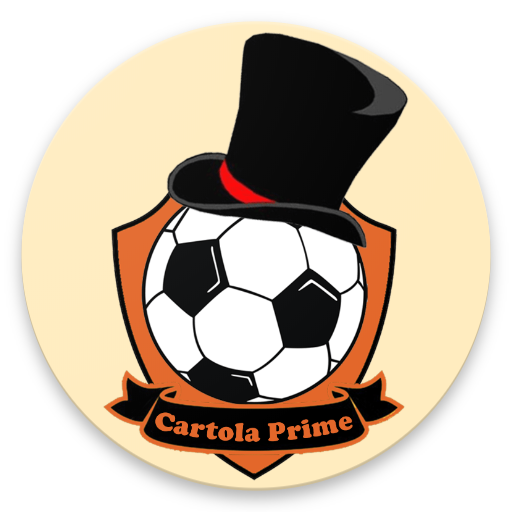
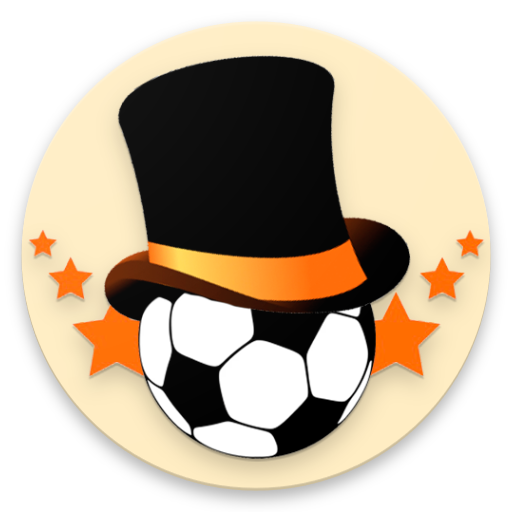
Ajustando icones

diff --git a/src/cartola_prime/lib/views/screens/mais_escalados_page.dart b/src/cartola_prime/lib/views/screens/mais_escalados_page.dart
@@ -235,23 +235,46 @@ class _MaisEscaldosPage extends State<MaisEscaldosPage> {
                   )
                 ],
               ),
-              Row(
+              Column(
                 children: [
-                  Image.network(
-                    escaldo.partida!.clubeCasa.escudos!.s30x30!,
-                    height: 25,
-                    width: 25,
-                    centerSlice: Rect.largest,
+                  Row(
+                    children: [
+                      Image.network(
+                        escaldo.partida!.clubeCasa.escudos!.s30x30!,
+                        height: 25,
+                        width: 25,
+                        centerSlice: Rect.largest,
+                      ),
+                      const Text(" X "),
+                      Image.network(
+                        escaldo.partida!.clubeVisitante.escudos!.s30x30!,
+                        height: 25,
+                        width: 25,
+                        centerSlice: Rect.largest,
+                      ),
+                    ],
                   ),
-                  const Text(" X "),
-                  Image.network(
-                    escaldo.partida!.clubeVisitante.escudos!.s30x30!,
-                    height: 25,
-                    width: 25,
-                    centerSlice: Rect.largest,
+                  const SizedBox(height: 30),
+                  Column(
+                    crossAxisAlignment: CrossAxisAlignment.center,
+                    mainAxisAlignment: MainAxisAlignment.end,
+                    mainAxisSize: MainAxisSize.max,
+                    children: [
+                      Text(
+                        NumberFormat.decimalPattern('pt-BR')
+                            .format(escaldo.atleta!.minimoParaValorizar ?? 0),
+                        style: const TextStyle(
+                            fontSize: 18, fontWeight: FontWeight.bold),
+                        textAlign: TextAlign.left,
+                      ),
+                      const Text(
+                        "MÍN Val",
+                        style: TextStyle(color: Colors.black, fontSize: 10),
+                      ),
+                    ],
                   ),
                 ],
-              )
+              ),
             ],
           ),
         ),

diff --git a/src/cartola_prime/lib/views/screens/home_page.dart b/src/cartola_prime/lib/views/screens/home_page.dart
@@ -52,7 +52,7 @@ class _HomePageState extends State<HomePage> {
   @override
   void initState() {
     super.initState();
-    _timeLogadoVM.isLogado().then((value) => _isLogado = value);
+    // _timeLogadoVM.isLogado().then((value) => _isLogado = value);
     preecherStatusMercado();
     verificarClubes();
     preencherInfoTime();
@@ -123,6 +123,7 @@ class _HomePageState extends State<HomePage> {
   }
 
   toggleMenu([bool end = false]) {
+    _timeLogadoVM.isLogado().then((value) => _isLogado = value);
     if (end) {
       final _state = _endSideMenuKey.currentState!;
       if (_state.isOpened) {
